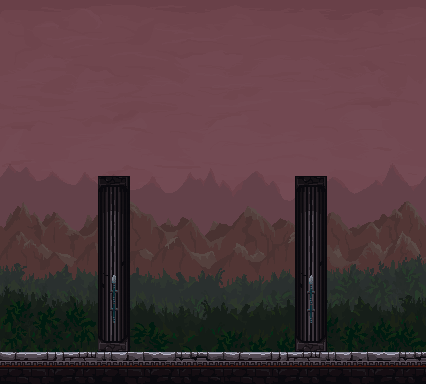
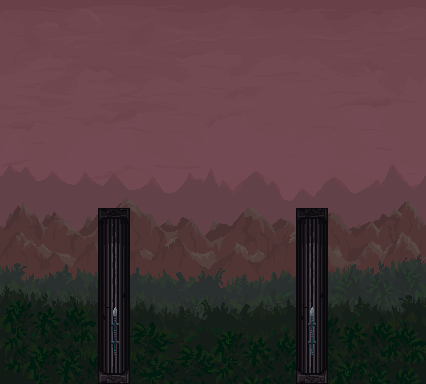
3rd map parser logic refactor
-refactored structure of the map parser

Changed region(s): [[0.0, 0.4375, 1.0, 1.0]]

diff --git a/src/game/Game.java b/src/game/Game.java
@@ -29,10 +29,10 @@ public class Game extends Canvas implements Runnable{
 	private int xOffset = 0, yOffset = 0;
 	private int horizontalIndex = 0;
 	private int verticalIndex = 0;
-	private int newOffsetX = 0;
-	private int newOffsetY = 0;
+	private int setX = 426;
+	private int setY = 384;
 	private int t = 0;
-	private String currentTheme="";
+	private String currentTheme="A";
 
 	//	private LinkedList<Level> levels = new LinkedList<>();
 	private Level currentLevel = new Level();
@@ -47,7 +47,7 @@ public class Game extends Canvas implements Runnable{
 
 		//make this as a player choice in the menu either MAP 1 or Randomly Generated
 		String mapMode = "default";
-		String mapUrl = "./src/game/map.txt";
+		String mapUrl = "./src/game/segmentA1.txt";
 
 		//keep default for now until we sort randomly generated
 		if (mapMode.equals("default"))
@@ -156,13 +156,17 @@ public class Game extends Canvas implements Runnable{
 				switch (splited[0]){
 
 					case "Theme":
-						if (Integer.parseInt(splited[2])!=masterOffsetX && Integer.parseInt(splited[3]) != masterOffsetY)
+						if (!splited[1].equals(currentTheme))
+						//if (Integer.parseInt(splited[2])!=masterOffsetX && Integer.parseInt(splited[3]) != masterOffsetY)
 						{
-							newOffsetX = Integer.parseInt(splited[2]);
-							newOffsetY = Integer.parseInt(splited[3]);
+							setX = Integer.parseInt(splited[2]);
+							setY = Integer.parseInt(splited[3]);
 							t = 1;
+							currentTheme = splited[1];
 						}
-						currentTheme = splited[1];
+						else
+						{
+						}
 						texturePlatformDefault = splited[4];
 						texturePlatformInverted = splited[5];
 						textureFloor = splited[6];
@@ -170,27 +174,25 @@ public class Game extends Canvas implements Runnable{
 						break;
 
 					case "Chunk":
-						c = new Chunk(horizontalIndex,verticalIndex,newOffsetX,newOffsetY,splited[3]);
+						c = new Chunk(horizontalIndex,verticalIndex,setX,setY,splited[3]);
 						currentLevel.addChunk(c);
-						if (t==0) {
-							masterOffsetX = newOffsetX;
-							masterOffsetY = newOffsetY;
-						}
+
 						switch (splited[2]){
 							case "E":
-								horizontalIndex= horizontalIndex + masterOffsetX;
+								horizontalIndex= horizontalIndex + setX;
 								break;
 							case "W":
-								horizontalIndex= horizontalIndex - masterOffsetX;
+								horizontalIndex= horizontalIndex - setX;
 								break;
 							case "N":
-								verticalIndex = verticalIndex - masterOffsetY;
+								verticalIndex = verticalIndex - setY;
 								break;
 							case "S":
-								verticalIndex = verticalIndex + masterOffsetY;
+								verticalIndex = verticalIndex + setY;
 								break;
 						}
-						t--;
+
+
 						break;
 
 					case "Platform":
@@ -217,13 +219,13 @@ public class Game extends Canvas implements Runnable{
 								break;
 						}
 
-						p = new Platform(horizontalIndex + Integer.parseInt(splited[2]), verticalIndex + Integer.parseInt(splited[3]) , width	, height, goUrl);
+						p = new Platform(horizontalIndex-setX+ Integer.parseInt(splited[2]), verticalIndex + Integer.parseInt(splited[3]) , width	, height, goUrl);
 						currentLevel.addPlatform(p);
 						break;
 
 					case "Floor":
 						goUrl=textureFloor;
-						p = new Platform(horizontalIndex , verticalIndex + newOffsetY , newOffsetX, 32, goUrl);
+						p = new Platform(horizontalIndex-setX , verticalIndex +setY , setX, 32, goUrl);
 						currentLevel.addPlatform(p);
 						break;
 					/*
